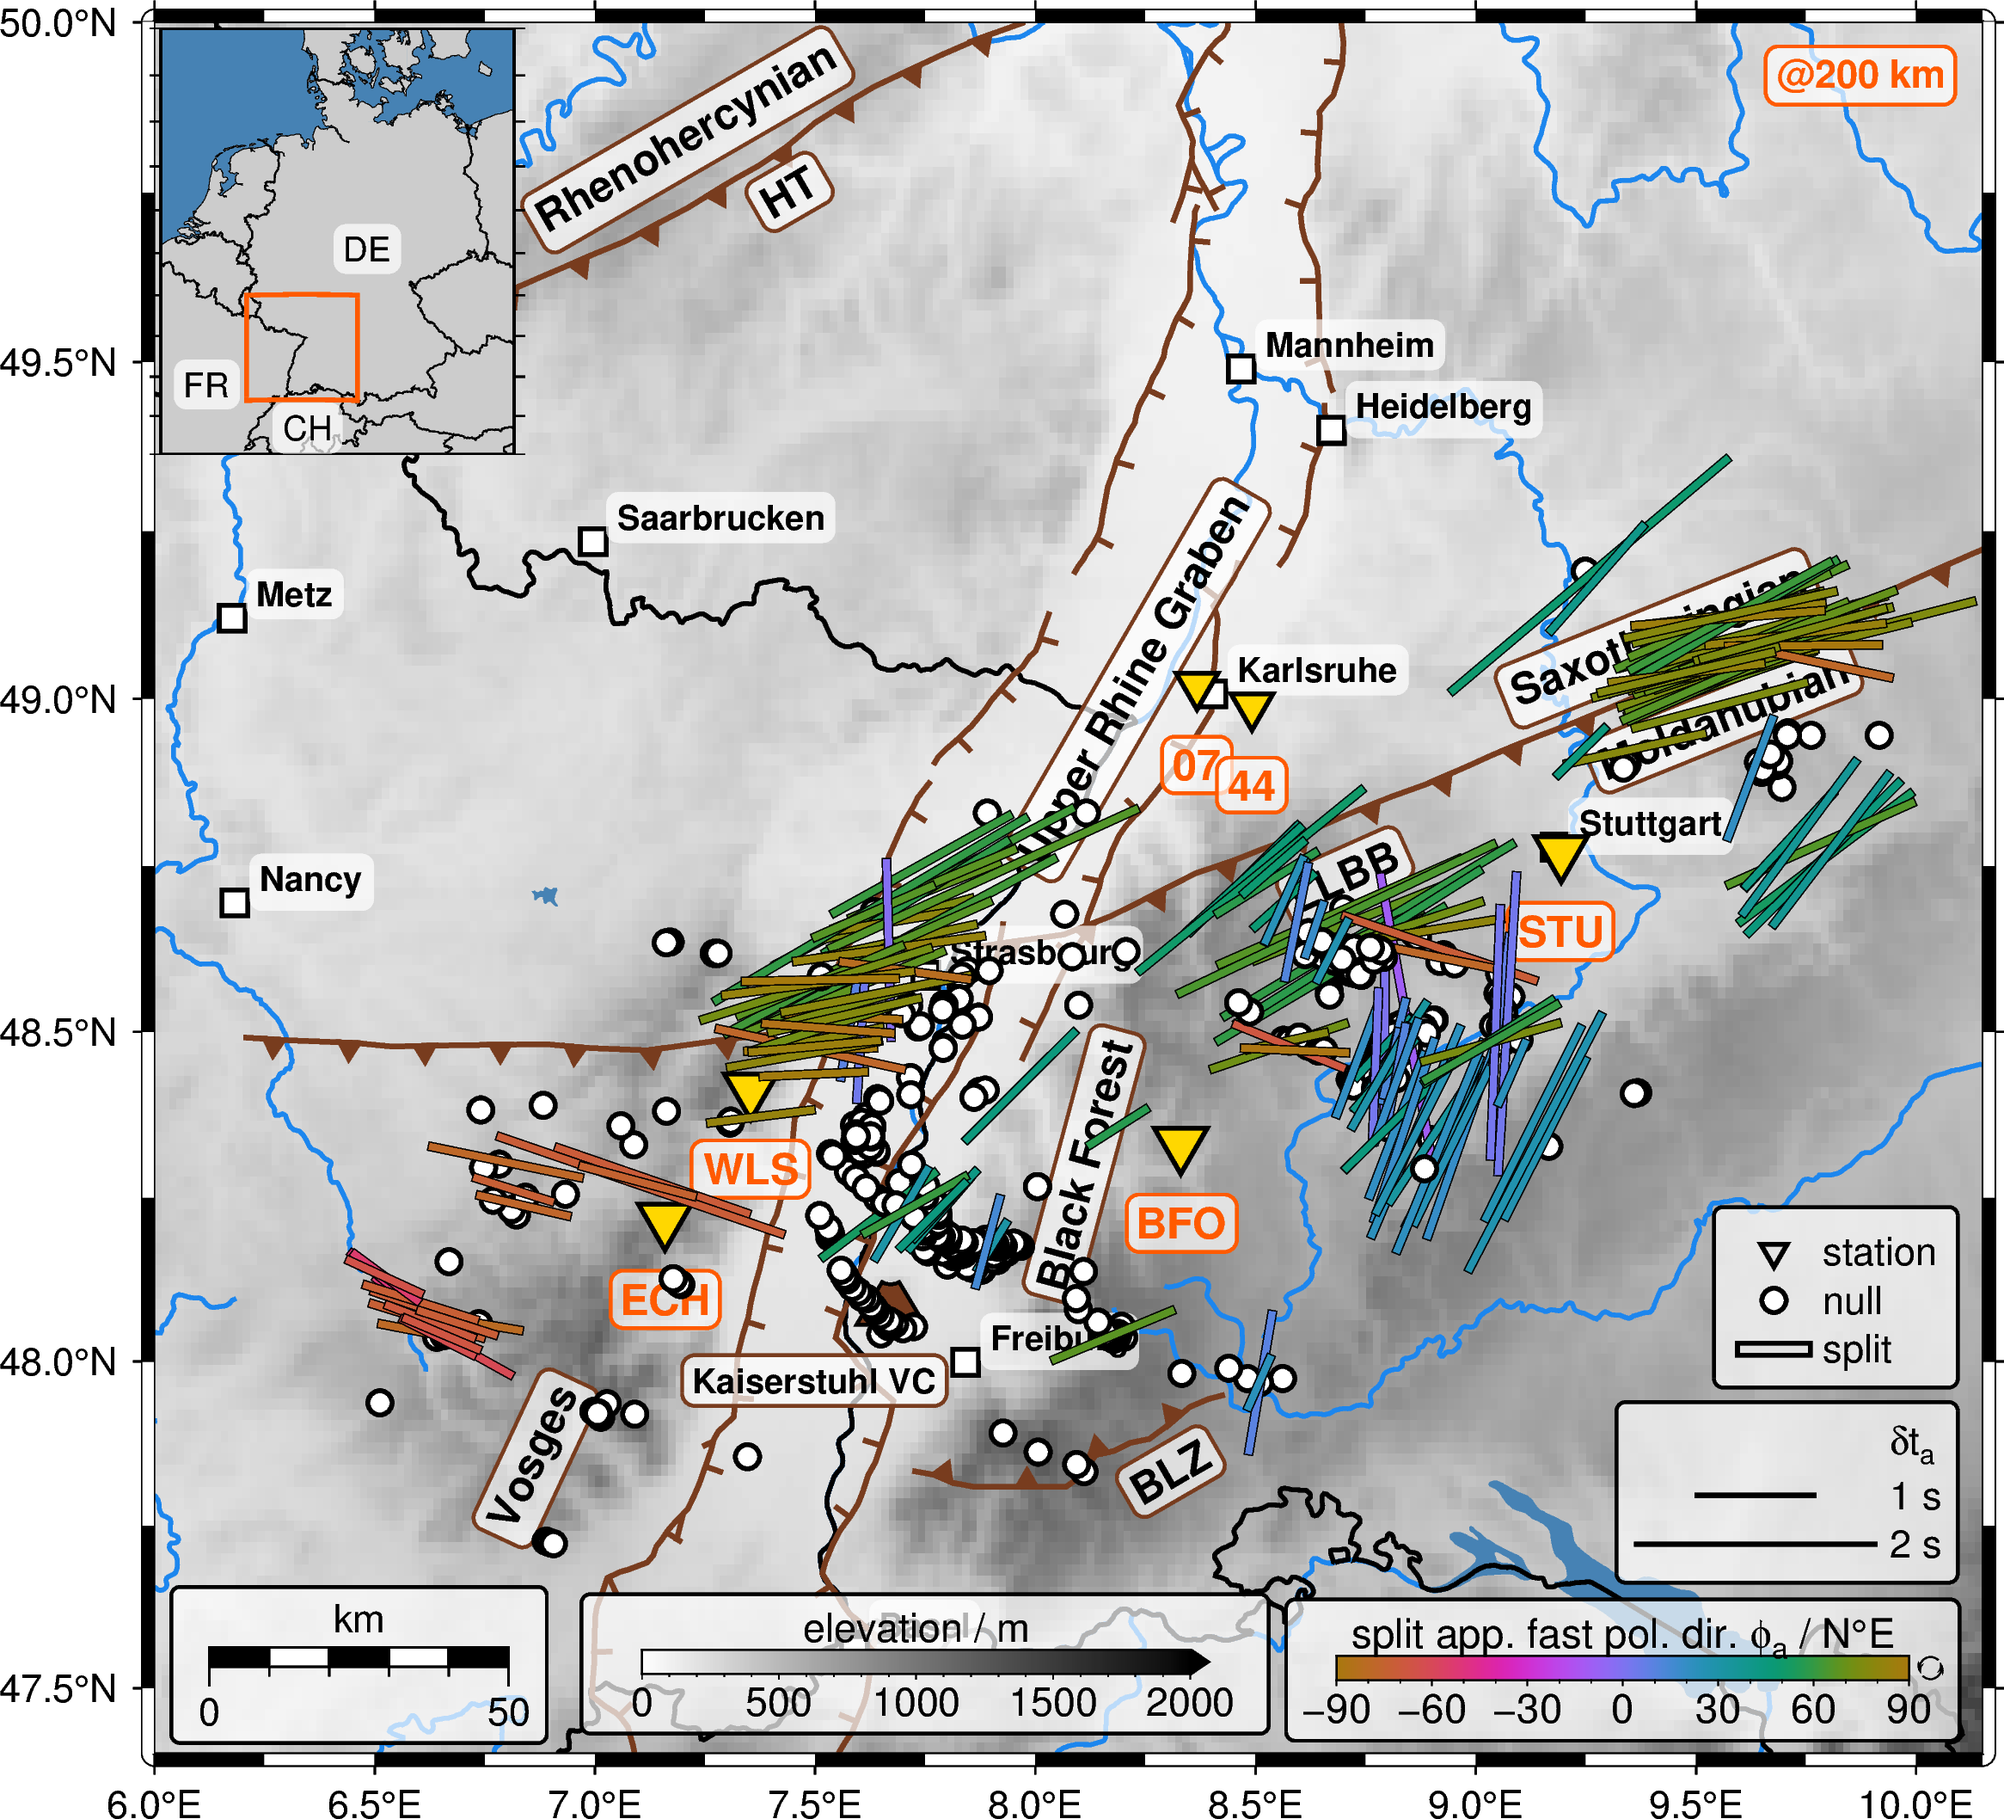
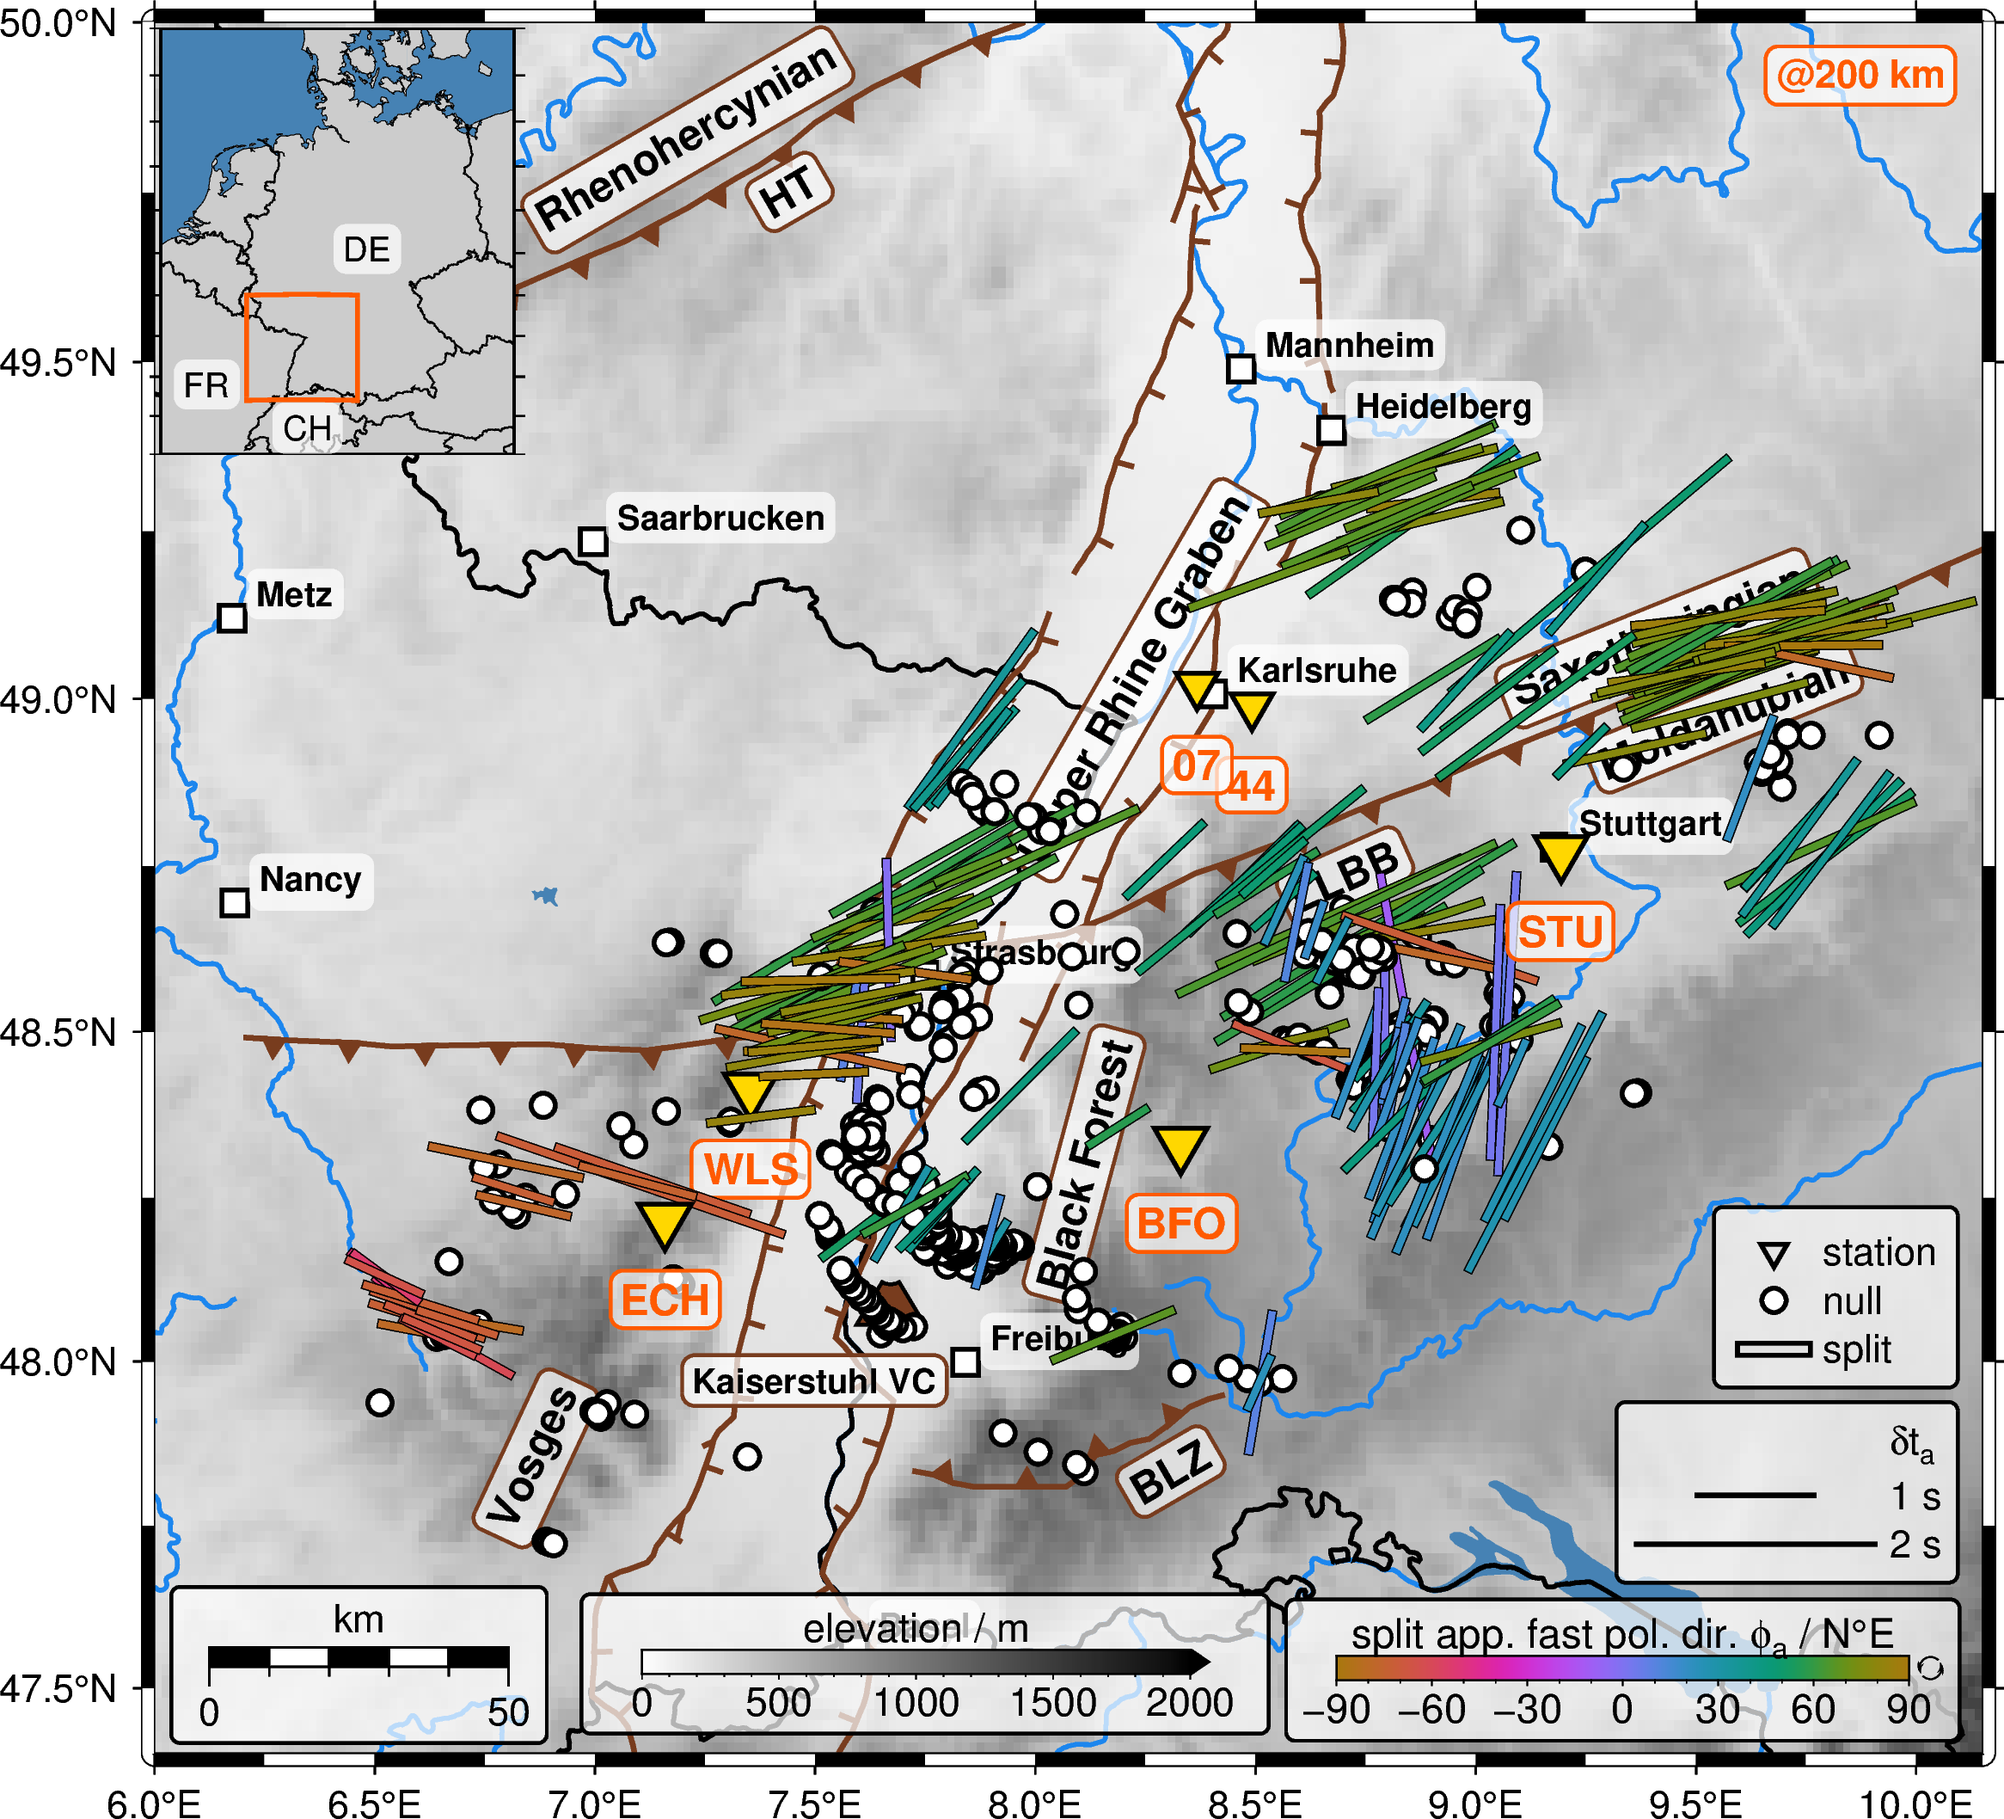
Add colorcoding for stations

diff --git a/002_paper_FGR_2024/Figure_9/FGR2024_GJI_Fig9.py b/002_paper_FGR_2024/Figure_9/FGR2024_GJI_Fig9.py
@@ -41,24 +41,6 @@ dpi_png = 360
 # Towns
 file_twons_in = f"{path_in}/rhein_towns.dat"
 
-# Recording stations
-file_station_in = f"{path_in}/stations_info.txt"
-dict_net = {}
-dict_lat = {}
-dict_lon = {}
-dict_file = {}
-dict_col = {}
-
-station_file = open(f"{path_in}/stations_info.txt", "r")
-lines = station_file.readlines()
-for line in lines[4:]:  # skip header line(s)
-   (lon, lat, key) = line.split()
-   dict_lon[key] = float(lon)
-   dict_lat[key] = float(lat)
-   dict_file[key] = key
-   dict_col[key] = "cyan"
-station_file.close()
-
 # Faults
 file_URGnormal_in = f"{path_in}/faults_URGnormal.geo"
 file_faults_in = f"{path_in}/faults_LLBB_TH_BLZ.geo"
@@ -67,8 +49,9 @@ file_faults_in = f"{path_in}/faults_LLBB_TH_BLZ.geo"
 textfile_geology_in = f"{path_in}/rhein_geology_large.dat"
 
 # Recording stations
+file_station_in = f"{path_in}/stations_info.txt"
 df_sta = pd.read_csv(file_station_in, sep="\t", header=2)
-stations = ["BFO", "WLS", "STU", "ECH", "44", "07"]
+stations = ["BFO", "WLS", "STU", "ECH", "TMO44", "TMO07"]
 
 # -----------------------------------------------------------------------------
 # Kaiserstuhl Volcanic Complex (KVC)
@@ -140,16 +123,21 @@ proj_main = "M15c"
 proj_study = "M?"
 
 # -----------------------------------------------------------------------------
-# Legends, colorbar, scale
+# Legends
+leg_pp_file = "legend_gmt_pp.txt"
+leg_dt_file = "legend_gmt_pp_dt.txt"
+leg_pp_pos = "JRB+jRB+w2.0c+o0.2c/3.0c"
+leg_dt_pos = "JRB+jRB+w2.8c+o0.2c/1.4c"
 
 # scale
-basemap_scale = f"JLB+jLB+w50+c{(lon_max + lon_min) / 2}/{(lat_max + lat_min) / 2}+f+lkm+at+o0.45c/0.55c"
-
-box_standard = "+gwhite@30+p0.8p,black+r2p"
+scale_pos = f"{(lon_max + lon_min) / 2}/{(lat_max + lat_min) / 2}"
+basemap_scale = f"JLB+jLB+w50+c{scale_pos}+f+lkm+at+o0.45c/0.55c"
 
 # text
 clearance_standard = "0.1c+tO"
 font_sta = f"10p,Helvetica-Bold,{color_hl}"
+
+box_standard = "+gwhite@30+p0.8p,black+r2p"
 
 
 # %%
@@ -233,29 +221,6 @@ fig.text(
 )
 
 # -----------------------------------------------------------------------------
-# Recording stations
-
-# markers
-for sta in stations:
-    style_sta = "i0.5c"
-    if sta in ["44", "07"]: style_sta = "i0.4c"
-    print(sta)
-    fig.plot(
-        data=df_sta[df_sta["station"] == sta],
-        style=style_sta, fill=color_sta,
-        pen="1p,black",
-    )
-# labels
-fig.text(
-    textfiles=file_station_in,
-    offset="0c/-0.65c",
-    fill="white@30",
-    font=font_sta,
-    pen=f"0.8p,{color_hl}",
-    clearance=clearance_standard,
-)
-
-# -----------------------------------------------------------------------------
 # Volcanic Complexes
 # marker - self-defined symbol, read from file
 for lon, lat, size in zip([lon_KVC, lon_VVC], [lat_KVC, lat_VVC], [0.7, 1]):
@@ -291,6 +256,42 @@ with gmt.config(MAP_SCALE_HEIGHT="9p"):
 # Piercing points
 # -----------------------------------------------------------------------------
 for station in stations:
+
+# -----------------------------------------------------------------------------
+    # Recording stations
+    df_sta_temp = df_sta[df_sta["station"] == station]
+
+    style_sta = "i0.5c"
+    label_sta = station
+    if station in ["TMO44", "TMO07"]:
+        style_sta = "i0.4c"
+        label_sta = station[3:5]
+        color_sta = color_sta
+    if status_pp == "station":
+        color_df = df_sta_temp["color"]
+        color_str = color_df.to_string()
+        color_sta = color_str[5:len(color_str)]  # index + tab -> 4 signs
+
+    # markers
+    fig.plot(
+        data=df_sta_temp,
+        style=style_sta,
+        fill=color_sta,
+        pen="1p,black",
+    )
+    # labels
+    fig.text(
+        text=label_sta,
+        x=df_sta_temp["longitude"],
+        y=df_sta_temp["latitude"],
+        offset="0c/-0.65c",
+        fill="white@30",
+        font=font_sta,
+        pen=f"0.8p,{color_hl}",
+        clearance=clearance_standard,
+    )
+
+# -----------------------------------------------------------------------------
     # lon | lat | phi_SL | phi_GMT | dt | si | baz | thick
     data_pp_end = "goodfair_hd0km.txt"
     data_path = f"{path_in}/pps/{station}_pp200km_"
@@ -304,42 +305,32 @@ for station in stations:
 # -----------------------------------------------------------------------------
     if status_pp == "station":  # color-coded by station
 
-        color_pp = dict_col[station]
         args_pp_NN_sta = {
             "style": "j",
-            "fill": dict_col[station],
+            "fill": color_sta,
             "pen": "0.2p,black",
             "incols": [0, 1, 3, 4, 7],
         }
         args_pp_N_sta = {
             "style": "C0.2",
             "fill": "white",
-            "pen": f"1p,{color_pp}",
+            "pen": f"1p,{color_sta}",
         }
 
         # non-null
-        try:
-            fig.plot(data=data_K_NN_pp, **args_pp_NN_sta)
-        except: print(f"{station} no pp K_NN")
-        try:
-            fig.plot(data=data_KK_NN_pp, **args_pp_NN_sta)
-        except: print(f"{station} no pp KK_NN")
-        try:
-            fig.plot(data=data_P_NN_pp, **args_pp_NN_sta)
-        except: print(f"{station} no pp P_NN")
+        for data, phase in zip([data_K_NN_pp, data_KK_NN_pp, data_P_NN_pp], ["K", "KK", "P"]):
+            try:
+                fig.plot(data=data, **args_pp_NN_sta)
+            except: print(f"{station} no pp {phase}_NN")
         # null
-        try:
-            fig.plot(data=data_K_N_pp, **args_pp_N_sta)
-        except: print(f"{station} no pp K_N")
-        try:
-            fig.plot(data=data_KK_N_pp, **args_pp_N_sta)
-        except: print(f"{station} no pp KK_N")
-        try:
-            fig.plot(data=data_P_N_pp, **args_pp_N_sta)
-        except: print(f"{station} no pp P_N")
+        for data, phase in zip([data_K_N_pp, data_KK_N_pp, data_P_N_pp], ["K", "KK", "P"]):
+            try:
+                fig.plot(data=data, **args_pp_N_sta)
+            except: print(f"{station} no pp {phase}_N")
 
 # -----------------------------------------------------------------------------
     elif status_pp!="station":  # color-coded by
+
         match status_pp:
             case "phi":  # fast polarization direction (phi)
                 color_pp = cmap_phi
@@ -354,7 +345,7 @@ for station in stations:
                 incols_pp = [0, 1, 5, 3, 4, 7]
                 incols_pp_N = [0, 1, 5]
             case "baz":  # backazimuth (baz)
-                color_pp= cmap_baz
+                color_pp = cmap_baz
                 incols_pp = [0, 1, 6, 3, 4, 7]
                 incols_pp_N = [0, 1, 6]
 
@@ -372,36 +363,20 @@ for station in stations:
         }
 
         # null
-        try:
-            fig.plot(data=data_K_N_pp, **args_pp_N_sp)
-        except: print(f"{station} no pp K_N")
-        try:
-            fig.plot(data=data_KK_N_pp, **args_pp_N_sp)
-        except: print(f"{station} no pp KK_N")
-        try:
-            fig.plot(data=data_P_N_pp, **args_pp_N_sp)
-        except: print(f"{station} no pp P_N")
+        for data, phase in zip([data_K_N_pp, data_KK_N_pp, data_P_N_pp], ["K", "KK", "P"]):
+            try:
+                fig.plot(data=data, **args_pp_N_sp)
+            except: print(f"{station} no pp {phase}_N")
         # non-null
-        try:
-            fig.plot(data=data_K_NN_pp, **args_pp_NN_sp)
-        except: print(f"{station} no pp K_NN")
-        try:
-            fig.plot(data=data_KK_NN_pp, **args_pp_NN_sp)
-        except: print(f"{station} no pp KK_NN")
-        try:
-            fig.plot(data=data_P_NN_pp, **args_pp_NN_sp)
-        except: print(f"{station} no pp P_NN")
+        for data, phase in zip([data_K_NN_pp, data_KK_NN_pp, data_P_NN_pp], ["K", "KK", "P"]):
+            try:
+                fig.plot(data=data, **args_pp_NN_sp)
+            except: print(f"{station} no pp {phase}_NN")
 
 
 # %%
 # -----------------------------------------------------------------------------
 # Legends
-leg_pp_pos = "JRB+jRB+w2.0c+o0.2c/3.0c"
-leg_dt_pos = "JRB+jRB+w2.8c+o0.2c/1.4c"
-
-leg_pp_file = "legend_gmt_pp.txt"
-leg_dt_file = "legend_gmt_pp_dt.txt"
-
 fig.legend(spec=f"{path_in}/{leg_pp_file}", position=leg_pp_pos, box=box_standard)
 fig.legend(spec=f"{path_in}/{leg_dt_file}", position=leg_dt_pos, box=box_standard)
 
